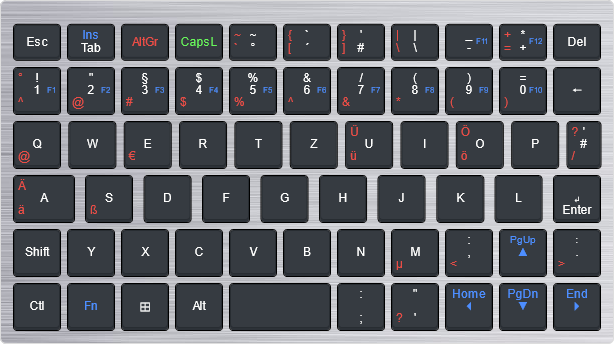
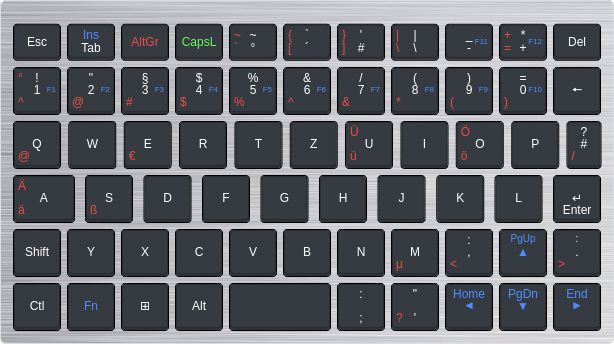
Fragezeichen leicher erreichbar gemacht
Zwei Tasten mit Hochkomma sind weniger praktisch als eine mit Hochkomma
und eine mit Fragezeichen.

diff --git a/README.md b/README.md
@@ -30,7 +30,7 @@ Dieses Tastaturlayout verbessert die Nutzung des GPD-Pocket für Nutzer, welche 
 Das hat zwar den Nachteil, dass die eckigen Klammern nicht mehr auf <kbd>8</kbd> und <kbd>9</kbd> passen, aber sie lassen sich über die Tasten oberhalb der <kbd>6</kbd> und <kbd>7</kbd> ebenso bequem eingeben.
 
 ![Layout GPD Pocket 2 German](doc/keyboard-layout.png)<br>
-[öffnen im Keyboard Layout Editor](http://www.keyboard-layout-editor.com/##@_background_name=Aluminium%20brushed&style=background-image%2F:%20url('%2F%2Fbg%2F%2Fmetal%2F%2Faluminum%2F_texture1642.jpg')%2F%3B%3B%3B&@_y:0.2&c=%232d3238&t=%23ffffff&p=CHICKLET&a:7&h:0.8%3B&=Esc&_t=%23073ff%0A%23ffffff&a:5&h:0.8%3B&=Ins%0ATab&_t=%23cc3030&a:7&h:0.8%3B&=AltGr&_t=%2330cc30&h:0.8%3B&=CapsL&_t=%23cc3030%0A%0A%0A%0A%0A%0A%0A%0A%23ffffff%0A%0A%23ffffff&a:4&h:0.8%3B&=~%0A%60%0A%0A%0A%0A%0A%0A%0A~%0A%0A%C2%B0&_h:0.8%3B&=%7B%0A%5B%0A%0A%0A%0A%0A%0A%0A%60%0A%0A%C2%B4&_h:0.8%3B&=%7D%0A%5D%0A%0A%0A%0A%0A%0A%0A'%0A%0A%23&_h:0.8%3B&=%7C%0A%5C%0A%0A%0A%0A%0A%0A%0A%7C%0A%0A%5C&_t=%23cc3030%0A%0A%0A%0A%0A%0A%0A%230073ff%0A%23ffffff%0A%0A%23ffffff&fa@:0&:0&:0&:0&:0&:0&:0&:1%3B&h:0.8%3B&=%0A%0A%0A%0A%0A%0A%0AF11%0A%2F_%0A%0A-&_h:0.8%3B&=+%0A%2F=%0A%0A%0A%0A%0A%0AF12%0A*%0A%0A+&_t=%23ffffff&a:7&h:0.8%3B&=Del%3B&@_y:-0.19999999999999996&t=%23cc3030%0A%0A%0A%0A%0A%0A%0A%230073ff%0A%23ffffff%0A%23ffffff&a:4%3B&=%C2%B0%0A%5E%0A%0A%0A%0A%0A%0AF1%0A!%0A1&=%0A%2F@%0A%0A%0A%0A%0A%0AF2%0A%22%0A2&=%0A%23%0A%0A%0A%0A%0A%0AF3%0A%C2%A7%0A3&=%0A$%0A%0A%0A%0A%0A%0AF4%0A$%0A4&=%0A%25%0A%0A%0A%0A%0A%0AF5%0A%25%0A5&=%0A%5E%0A%0A%0A%0A%0A%0AF6%0A%2F&%0A6&=%0A%2F&%0A%0A%0A%0A%0A%0AF7%0A%2F%2F%0A7&=%0A*%0A%0A%0A%0A%0A%0AF8%0A(%0A8&=%0A(%0A%0A%0A%0A%0A%0AF9%0A)%0A9&=%0A)%0A%0A%0A%0A%0A%0AF10%0A%2F=%0A0&_t=%23ffffff&a:7%3B&=%F0%9F%A0%94%3B&@_t=%23cc3030%0A%0A%0A%0A%0A%0A%0A%0A%0A%23ffffff&a:4%3B&=%0A%2F@%0A%0A%0A%0A%0A%0A%0A%0AQ&_x:0.02499999999999991&t=%23ffffff&a:7%3B&=W&_x:0.02499999999999991&t=%23cc3030%0A%0A%0A%0A%0A%0A%0A%0A%0A%23ffffff&a:4%3B&=%0A%E2%82%AC%0A%0A%0A%0A%0A%0A%0A%0AE&_x:0.02499999999999991&t=%23ffffff&a:7%3B&=R&_x:0.025000000000000355%3B&=T&_x:0.025000000000000355%3B&=Z&_x:0.025000000000000355&t=%23cc3030%0A%0A%0A%0A%0A%0A%0A%0A%0A%23ffffff&a:4%3B&=%C3%9C%0A%C3%BC%0A%0A%0A%0A%0A%0A%0A%0AU&_x:0.025000000000000355&t=%23ffffff&a:7%3B&=I&_x:0.025000000000000355&t=%23cc3030%0A%0A%0A%0A%0A%0A%0A%0A%0A%23ffffff&a:4%3B&=%C3%96%0A%C3%B6%0A%0A%0A%0A%0A%0A%0A%0AO&_x:0.025000000000000355&t=%23ffffff&a:7%3B&=P&_x:0.025000000000000355&t=%23cc3030%0A%0A%0A%0A%0A%0A%0A%0A%23ffffff%0A%23ffffff&a:4&w:0.75%3B&=%3F%0A%2F%2F%0A%0A%0A%0A%0A%0A%0A'%0A%23%3B&@_t=%23cc3030%0A%0A%0A%0A%0A%0A%0A%0A%0A%23ffffff&w:1.25%3B&=%C3%84%0A%C3%A4%0A%0A%0A%0A%0A%0A%0A%0AA&_x:0.08299999999999996%3B&=%0A%C3%9F%0A%0A%0A%0A%0A%0A%0A%0AS&_x:0.08400000000000007&t=%23ffffff&a:7%3B&=D&_x:0.08300000000000018%3B&=F&_x:0.08300000000000018%3B&=G&_x:0.08399999999999963%3B&=H&_x:0.08300000000000018%3B&=J&_x:0.08999999999999986%3B&=K&_x:0.07699999999999996%3B&=L&_x:0.08300000000000018&a:5%3B&=%0AEnter%0A%0A%0A%0A%0A%E2%86%B5%3B&@_a:7%3B&=Shift&=Y&=X&=C&=V&=B&=N&_t=%23cc3030%0A%0A%0A%0A%0A%0A%0A%0A%0A%23ffffff&a:4%3B&=%0A%C2%B5%0A%0A%0A%0A%0A%0A%0A%0AM&_t=%23cc3030%0A%0A%0A%0A%0A%0A%0A%0A%23ffffff%0A%23ffffff%3B&=%0A%3C%0A%0A%0A%0A%0A%0A%0A%2F:%0A,&_t=%230073ff&a:5&fa@:2%3B%3B&=PgUp%0A%0A%0A%0A%0A%0A%E2%96%B2&_t=%23cc3030%0A%0A%0A%0A%0A%0A%0A%0A%23ffffff%0A%23ffffff&a:4&fa@:2&:0&:0&:0&:0&:0&:0&:0&:2%3B%3B&=%0A%3E%0A%0A%0A%0A%0A%0A%0A%2F:%0A.%3B&@_t=%23ffffff&a:7&f:3%3B&=Ctl&_t=%230073ff&f:3%3B&=Fn&_t=%23ffffff&f:3%3B&=%E2%8A%9E&_f:3%3B&=Alt&_w:2%3B&=&_a:5&f:3%3B&=%2F:%0A%2F%3B&_t=%23cc3030%0A%0A%0A%0A%0A%0A%0A%0A%23ffffff%0A%0A%23ffffff&a:4&f:3%3B&=%0A%3F%0A%0A%0A%0A%0A%0A%0A%22%0A%0A'&_t=%230073ff&a:5&f:3%3B&=Home%0A%0A%0A%0A%0A%0A%F0%9F%9E%80&_f:3%3B&=PgDn%0A%0A%0A%0A%0A%0A%E2%96%BC&_f:3%3B&=End%0A%0A%0A%0A%0A%0A%F0%9F%9E%82)
+[öffnen im Keyboard Layout Editor](http://www.keyboard-layout-editor.com/##@_background_name=Aluminium%20brushed&style=background-image%2F:%20url('%2F%2Fbg%2F%2Fmetal%2F%2Faluminum%2F_texture1642.jpg')%2F%3B%3B%3B&@_y:0.2&c=%232d3238&t=%23ffffff&p=CHICKLET&a:7&h:0.8%3B&=Esc&_t=%23073ff%0A%23ffffff&a:5&h:0.8%3B&=Ins%0ATab&_t=%23cc3030&a:7&h:0.8%3B&=AltGr&_t=%2330cc30&h:0.8%3B&=CapsL&_t=%23cc3030%0A%0A%0A%0A%0A%0A%0A%0A%23ffffff%0A%0A%23ffffff&a:4&h:0.8%3B&=~%0A%60%0A%0A%0A%0A%0A%0A%0A~%0A%0A%C2%B0&_h:0.8%3B&=%7B%0A%5B%0A%0A%0A%0A%0A%0A%0A%60%0A%0A%C2%B4&_h:0.8%3B&=%7D%0A%5D%0A%0A%0A%0A%0A%0A%0A'%0A%0A%23&_h:0.8%3B&=%7C%0A%5C%0A%0A%0A%0A%0A%0A%0A%7C%0A%0A%5C&_t=%23cc3030%0A%0A%0A%0A%0A%0A%0A%230073ff%0A%23ffffff%0A%0A%23ffffff&fa@:0&:0&:0&:0&:0&:0&:0&:1%3B&h:0.8%3B&=%0A%0A%0A%0A%0A%0A%0AF11%0A%2F_%0A%0A-&_h:0.8%3B&=+%0A%2F=%0A%0A%0A%0A%0A%0AF12%0A*%0A%0A+&_t=%23ffffff&a:7&h:0.8%3B&=Del%3B&@_y:-0.19999999999999996&t=%23cc3030%0A%0A%0A%0A%0A%0A%0A%230073ff%0A%23ffffff%0A%23ffffff&a:4%3B&=%C2%B0%0A%5E%0A%0A%0A%0A%0A%0AF1%0A!%0A1&=%0A%2F@%0A%0A%0A%0A%0A%0AF2%0A%22%0A2&=%0A%23%0A%0A%0A%0A%0A%0AF3%0A%C2%A7%0A3&=%0A$%0A%0A%0A%0A%0A%0AF4%0A$%0A4&=%0A%25%0A%0A%0A%0A%0A%0AF5%0A%25%0A5&=%0A%5E%0A%0A%0A%0A%0A%0AF6%0A%2F&%0A6&=%0A%2F&%0A%0A%0A%0A%0A%0AF7%0A%2F%2F%0A7&=%0A*%0A%0A%0A%0A%0A%0AF8%0A(%0A8&=%0A(%0A%0A%0A%0A%0A%0AF9%0A)%0A9&=%0A)%0A%0A%0A%0A%0A%0AF10%0A%2F=%0A0&_t=%23ffffff&a:7%3B&=%F0%9F%A0%94%3B&@_t=%23cc3030%0A%0A%0A%0A%0A%0A%0A%0A%0A%23ffffff&a:4%3B&=%0A%2F@%0A%0A%0A%0A%0A%0A%0A%0AQ&_x:0.02499999999999991&t=%23ffffff&a:7%3B&=W&_x:0.02499999999999991&t=%23cc3030%0A%0A%0A%0A%0A%0A%0A%0A%0A%23ffffff&a:4%3B&=%0A%E2%82%AC%0A%0A%0A%0A%0A%0A%0A%0AE&_x:0.02499999999999991&t=%23ffffff&a:7%3B&=R&_x:0.025000000000000355%3B&=T&_x:0.025000000000000355%3B&=Z&_x:0.025000000000000355&t=%23cc3030%0A%0A%0A%0A%0A%0A%0A%0A%0A%23ffffff&a:4%3B&=%C3%9C%0A%C3%BC%0A%0A%0A%0A%0A%0A%0A%0AU&_x:0.025000000000000355&t=%23ffffff&a:7%3B&=I&_x:0.025000000000000355&t=%23cc3030%0A%0A%0A%0A%0A%0A%0A%0A%0A%23ffffff&a:4%3B&=%C3%96%0A%C3%B6%0A%0A%0A%0A%0A%0A%0A%0AO&_x:0.025000000000000355&t=%23ffffff&a:7%3B&=P&_x:0.025000000000000355&t=%23cc3030%0A%0A%0A%0A%0A%0A%0A%0A%23ffffff%0A%23ffffff&a:4&w:0.75%3B&=%0A%2F%2F%0A%0A%0A%0A%0A%0A%0A%3F%0A%23%3B&@_t=%23cc3030%0A%0A%0A%0A%0A%0A%0A%0A%0A%23ffffff&w:1.25%3B&=%C3%84%0A%C3%A4%0A%0A%0A%0A%0A%0A%0A%0AA&_x:0.08299999999999996%3B&=%0A%C3%9F%0A%0A%0A%0A%0A%0A%0A%0AS&_x:0.08400000000000007&t=%23ffffff&a:7%3B&=D&_x:0.08300000000000018%3B&=F&_x:0.08300000000000018%3B&=G&_x:0.08399999999999963%3B&=H&_x:0.08300000000000018%3B&=J&_x:0.08999999999999986%3B&=K&_x:0.07699999999999996%3B&=L&_x:0.08300000000000018&a:5%3B&=%0AEnter%0A%0A%0A%0A%0A%E2%86%B5%3B&@_a:7%3B&=Shift&=Y&=X&=C&=V&=B&=N&_t=%23cc3030%0A%0A%0A%0A%0A%0A%0A%0A%0A%23ffffff&a:4%3B&=%0A%C2%B5%0A%0A%0A%0A%0A%0A%0A%0AM&_t=%23cc3030%0A%0A%0A%0A%0A%0A%0A%0A%23ffffff%0A%23ffffff%3B&=%0A%3C%0A%0A%0A%0A%0A%0A%0A%2F:%0A,&_t=%230073ff&a:5&fa@:2%3B%3B&=PgUp%0A%0A%0A%0A%0A%0A%E2%96%B2&_t=%23cc3030%0A%0A%0A%0A%0A%0A%0A%0A%23ffffff%0A%23ffffff&a:4&fa@:2&:0&:0&:0&:0&:0&:0&:0&:2%3B%3B&=%0A%3E%0A%0A%0A%0A%0A%0A%0A%2F:%0A.%3B&@_t=%23ffffff&a:7&f:3%3B&=Ctl&_t=%230073ff&f:3%3B&=Fn&_t=%23ffffff&f:3%3B&=%E2%8A%9E&_f:3%3B&=Alt&_w:2%3B&=&_a:5&f:3%3B&=%2F:%0A%2F%3B&_t=%23cc3030%0A%0A%0A%0A%0A%0A%0A%0A%23ffffff%0A%0A%23ffffff&a:4&f:3%3B&=%0A%3F%0A%0A%0A%0A%0A%0A%0A%22%0A%0A'&_t=%230073ff&a:5&f:3%3B&=Home%0A%0A%0A%0A%0A%0A%F0%9F%9E%80&_f:3%3B&=PgDn%0A%0A%0A%0A%0A%0A%E2%96%BC&_f:3%3B&=End%0A%0A%0A%0A%0A%0A%F0%9F%9E%82)
 
 Nachfolgend alle Änderungen, dieses Tastaturlayouts im Überblick:
 
